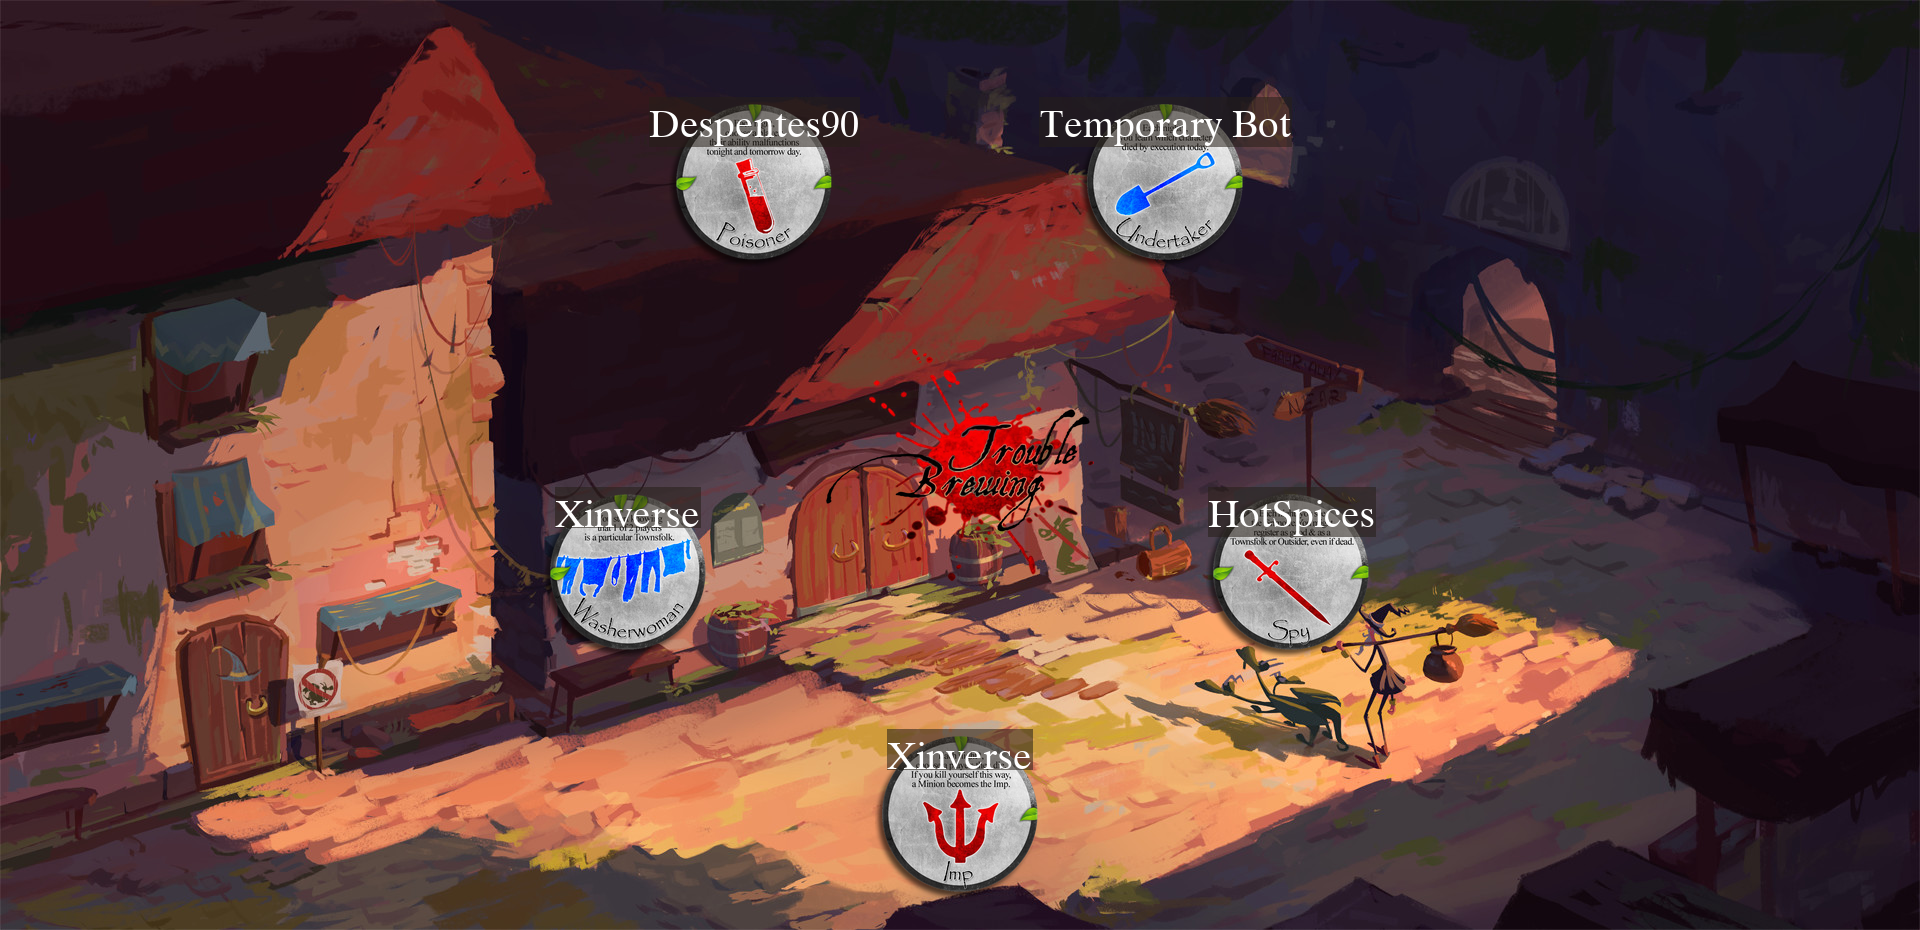
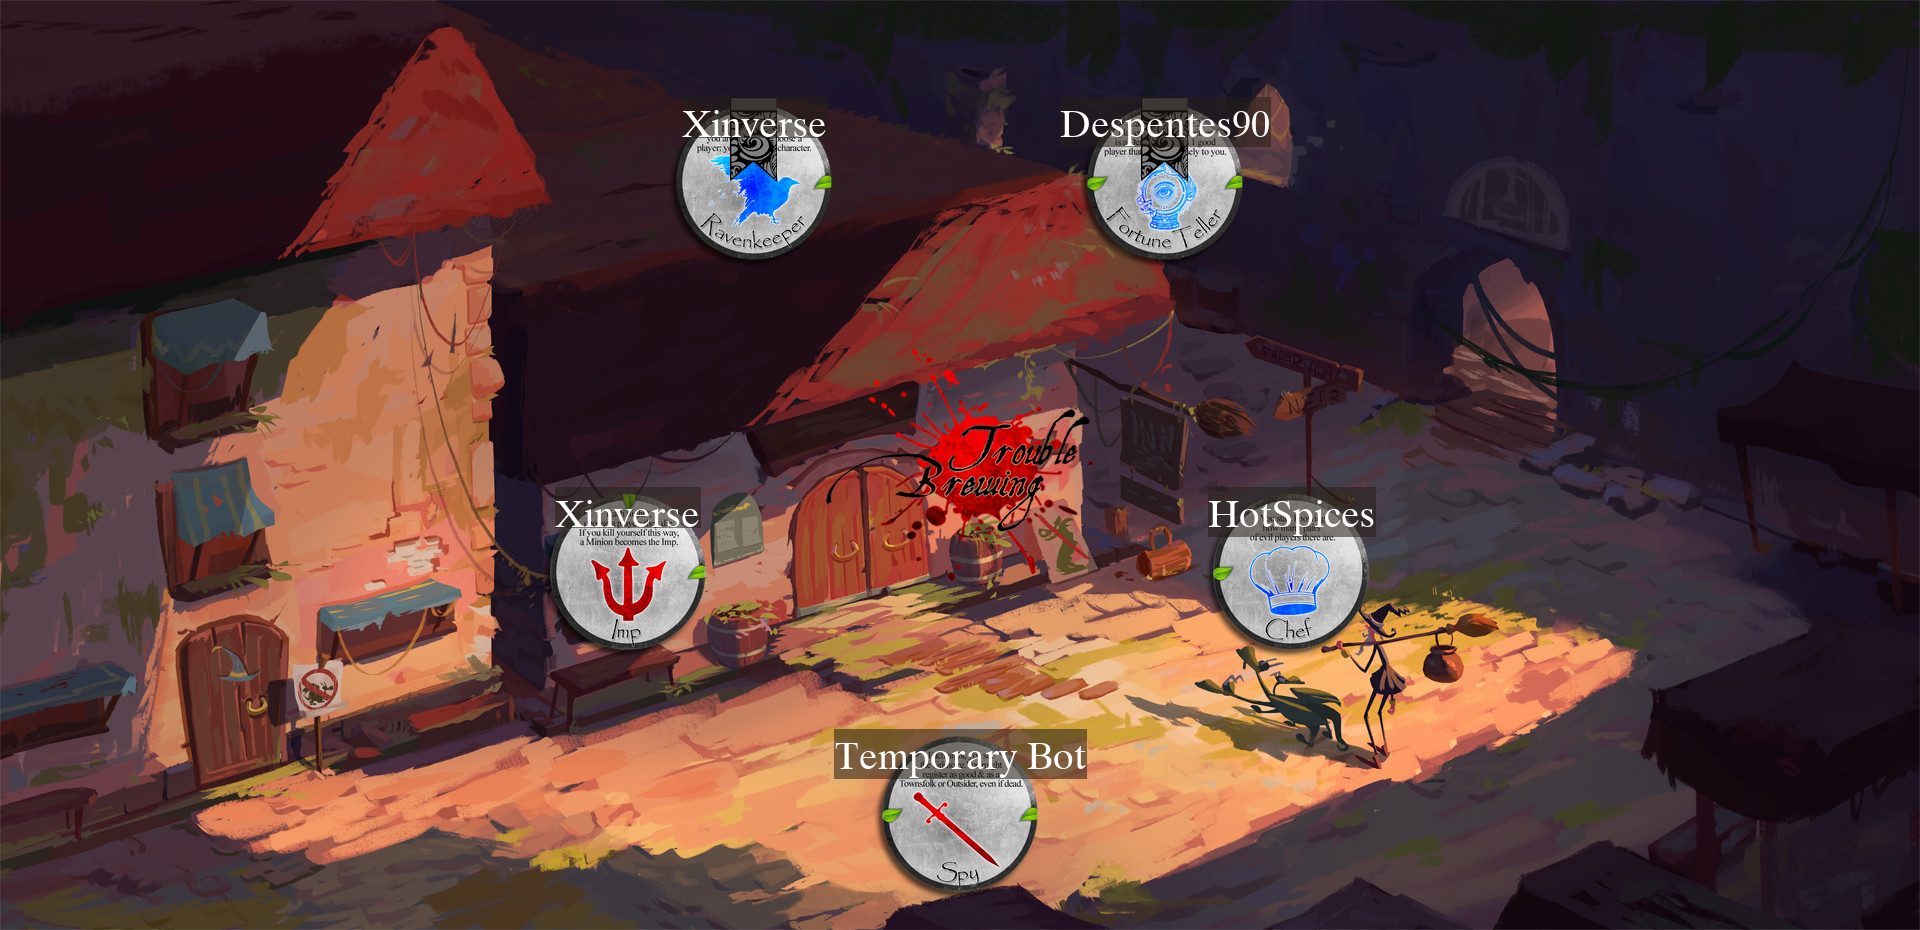
ravenkeeper fully functional

diff --git a/botc/gamemodes/troublebrewing/Ravenkeeper.py b/botc/gamemodes/troublebrewing/Ravenkeeper.py
@@ -2,9 +2,10 @@
 
 import json
 import discord
+import random
 import datetime
 from botc import Action, ActionTypes, Townsfolk, Character, NonRecurringAction, \
-    RavenkeeperActivated, StatusList
+    RavenkeeperActivated, StatusList, BOTCUtils, Minion, Demon, Outsider
 from botc.BOTCUtils import GameLogic
 from ._utils import TroubleBrewing, TBRole
 import globvars
@@ -19,6 +20,7 @@ with open('botutils/bot_text.json') as json_file:
 with open('botc/game_text.json') as json_file: 
     strings = json.load(json_file)
     copyrights_str = strings["misc"]["copyrights"]
+    ravenkeeper_reply = strings["gameplay"]["ravenkeeper_reply"]
 
 
 class Ravenkeeper(Townsfolk, TroubleBrewing, Character, NonRecurringAction):
@@ -120,10 +122,49 @@ class Ravenkeeper(Townsfolk, TroubleBrewing, Character, NonRecurringAction):
         
     async def exec_learn(self, ravenkeeper_player, learn_player):
         """Execute the learn command (dawn ability interaction)"""
-        pass
+
+        # Correct info
+        if not ravenkeeper_player.is_droisoned():
+            learned_character_type = learn_player.role.social_self
+
+        # Droisoned info
+        else:
+            real_character_type = learn_player.role.true_self
+            # If the real character type is good
+            if real_character_type.is_good():
+                tb_minion_all = BOTCUtils.get_role_list(TroubleBrewing, Minion)
+                tb_demon_all = BOTCUtils.get_role_list(TroubleBrewing, Demon)
+                pool = tb_minion_all + tb_demon_all
+                learned_character_type = random.choice(pool)
+            # If the real character type is bad
+            else:
+                tb_townsfolk_all = BOTCUtils.get_role_list(TroubleBrewing, Townsfolk)
+                tb_outsider_all = BOTCUtils.get_role_list(TroubleBrewing, Outsider)
+                pool = tb_townsfolk_all + tb_outsider_all
+                learned_character_type = random.choice(pool)
+        
+        link = learned_character_type._art_link_cropped
+        recipient = ravenkeeper_player.user
+        
+        msg = f"***{recipient.name}#{recipient.discriminator}***, the **{self.name}**:"
+        msg += "\n"
+        msg += self.emoji + " " + self.instruction
+        msg += "\n"
+        msg += ravenkeeper_reply.format(learned_character_type.name)
+
+        embed = discord.Embed(description = msg)
+        embed.set_thumbnail(url = link)
+        embed.set_footer(text = copyrights_str)
+        embed.timestamp = datetime.datetime.utcnow()
+
+        try:
+            await recipient.send(embed = embed)
+        except discord.Forbidden:
+            pass
     
     @GameLogic.requires_one_target
-    @GameLogic.changes_not_allowed
+    @GameLogic.changes_not_allowed_dawn
+    @GameLogic.requires_status(StatusList.ravenkeeper_activated)
     async def register_learn(self, player, targets):
         """Learn command"""
         

diff --git a/botc/BOTCUtils.py b/botc/BOTCUtils.py
@@ -24,6 +24,7 @@ with open('botc/game_text.json') as json_file:
     requires_different_targets_str = documentation["cmd_warnings"]["requires_different_targets_str"]
     changes_not_allowed = documentation["cmd_warnings"]["changes_not_allowed"]
     unique_ability_used = documentation["cmd_warnings"]["unique_ability_used"]
+    not_under_status = documentation["cmd_warnings"]["not_under_status"]
     lore = documentation["lore"]
 
 
@@ -237,6 +238,11 @@ class UniqueAbilityError(AbilityForbidden):
    pass
 
 
+class NotUnderStatus(AbilityForbidden):
+   """Attempt to use an ability that works only under a certain status effect"""
+   pass
+
+
 class FirstNightNotAllowed(AbilityForbidden):
    """Attempt to use action on first night when not allowed"""
    pass
@@ -279,6 +285,21 @@ class GameLogic:
                raise NoSelfTargetting(no_self_targetting_str.format(player.user.mention, x_emoji))
          return func(self, player, targets)
       return inner 
+   
+   @staticmethod
+   def requires_status(status_effect):
+      """Decorator for abilities that require the player to be under a specific status. 
+      Decorator factory that creates decorators based on the status type.
+
+      @status_effect: StatusList enum object
+      """
+      def decorator(func):
+         def inner(self, player, targets):
+            if not player.has_status_effect(status_effect):
+               raise NotUnderStatus(not_under_status.format(player.user.mention, x_emoji))
+            return func(self, player, targets)
+         return inner
+      return decorator
 
    @staticmethod
    def unique_ability(ability_type):
@@ -318,6 +339,16 @@ class GameLogic:
       def inner(self, player, targets):
          import globvars
          if player.role.ego_self.has_finished_night_action(player):
+            raise ChangesNotAllowed(changes_not_allowed.format(player.user.mention, x_emoji))
+         return func(self, player, targets)
+      return inner
+   
+   @staticmethod
+   def changes_not_allowed_dawn(func):
+      """Decorator for abilities that cannot modify targets after inputting them"""
+      def inner(self, player, targets):
+         import globvars
+         if player.role.ego_self.has_finished_dawn_action(player):
             raise ChangesNotAllowed(changes_not_allowed.format(player.user.mention, x_emoji))
          return func(self, player, targets)
       return inner
